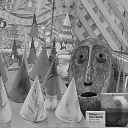
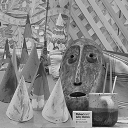
Fixed stereo app

diff --git a/apps/hardware_benchmarks/apps/stereo/stereo_generator.cpp b/apps/hardware_benchmarks/apps/stereo/stereo_generator.cpp
@@ -13,75 +13,48 @@ namespace {
     Input<Buffer<uint8_t>> right{"right", 2};
     Output<Buffer<uint8_t>> output{"output", 2};
 
-    int windowR = 4;
+    int windowR = 8;
     int searchR = 10;
 
-    Func rectify_float(Func img, Func remap) {
-      Expr offsetX = cast<float>(cast<int16_t>(remap(x, y, 0)) - cast<int16_t>(128)) / 16.0f;
-      Expr offsetY = cast<float>(cast<int16_t>(remap(x, y, 1)) - cast<int16_t>(128)) / 16.0f;
-
-      Expr targetX = cast<int>(floor(offsetX));
-      Expr targetY = cast<int>(floor(offsetY));
-
-      Expr wx = offsetX - targetX;
-      Expr wy = offsetY - targetY;
-
-      Func interpolated("interpolated");
-      interpolated(x, y) = lerp(lerp(img(x+targetX, y+targetY, 1), img(x+targetX+1, y+targetY, 1), wx),
-                                lerp(img(x+targetX, y+targetY+1, 1), img(x+targetX+1, y+targetY+1, 1), wx), wy);
-
-      return interpolated;
-    }
-
-    Func rectify_int(Func img, Func remap) {
-      Expr targetX = (cast<int16_t>(remap(x, y, 0)) - 128) / 16;
-      Expr targetY = (cast<int16_t>(remap(x, y, 1)) - 128) / 16;
-
-      // wx and wy are equal to wx*256 and wy*256 in rectify_float()
-      Expr wx = cast<uint8_t>((cast<int16_t>(remap(x, y, 0)) * 16) - (128 * 16) - (targetX * 256));
-      Expr wy = cast<uint8_t>((cast<int16_t>(remap(x, y, 1)) * 16) - (128 * 16) - (targetY * 256));
-
-      Func interpolated("interpolated");
-      interpolated(x, y) = lerp(lerp(img(x+targetX, y+targetY, 1), img(x+targetX+1, y+targetY, 1), wx),
-                                lerp(img(x+targetX, y+targetY+1, 1), img(x+targetX+1, y+targetY+1, 1), wx), wy);
-
-      return interpolated;
-    }
+   
 
     void generate() {
       
       
       Func left_padded, right_padded;
-      Func left_remapped, right_remapped;
+
       Func SAD, offset0, offset1, hw_output;
       RDom win(-windowR, windowR*2, -windowR, windowR*2);
       RDom search(0, searchR);
 
-      Func hw_right_input("hw_right_input");
-      hw_right_input(x, y) = cast<uint16_t>(right(x, y));
-
-      Func hw_left_input("hw_left_input");
-      hw_left_input(x, y) = cast<uint16_t>(left(x, y));
-
-      right_padded = BoundaryConditions::constant_exterior(hw_right_input, 0, 129,129);
-      left_padded = BoundaryConditions::constant_exterior(hw_left_input, 0, 129,129);
-
-      right_remapped = right_padded;
-      left_remapped = left_padded;
+      right_padded = Halide::BoundaryConditions::repeat_edge(left);
+      left_padded = Halide::BoundaryConditions::repeat_edge(right);
 
 
-      SAD(x, y, c) = 0;
-      SAD(x, y, c) += cast<uint16_t>(absd(right_remapped(x+win.x, y+win.y),
-                                          left_remapped(x+win.x+20+c, y+win.y)));
+      Func hw_right_input("hw_right_input"), hw_right_input_copy("hw_right_input_copy");
+      hw_right_input(x, y) = cast<uint16_t>(right_padded(x, y));
+      hw_right_input_copy(x,y) = hw_right_input(x, y);
 
+      Func hw_left_input("hw_left_input"), hw_left_input_copy("hw_left_input_copy");
+      hw_left_input(x, y) = cast<uint16_t>(left_padded(x, y));
+      hw_left_input_copy(x,y) = hw_left_input(x, y);
 
-      offset0(x, y) = cast<uint16_t>(0);
+      SAD(x, y, c) = cast<uint16_t>(0);
+      SAD(x, y, c) += cast<uint16_t>(absd(hw_right_input_copy(x+win.x, y+win.y),
+                                          hw_left_input_copy(x+win.x+5+c, y+win.y)));
+
+      offset0(x, y) = cast<int8_t>(0);
       offset1(x, y) = cast<uint16_t>(65535);
-      offset1(x, y) = cast<uint16_t>(min(SAD(x, y, search.x), offset1(x, y)));
-      offset0(x, y) = cast<uint16_t>(select(SAD(x, y, search.x) < offset1(x, y), cast<uint16_t>(search.x), offset0(x, y)));
 
-      hw_output(x, y) = cast<uint8_t>(cast<uint16_t>(offset0(x, y)) * 255 / searchR);
+      offset1(x,y) = min(SAD(x, y, search.x), offset1(x, y));
+      offset0(x, y) = select(SAD(x, y, search.x) == offset1(x, y), cast<int8_t>(search.x), offset0(x, y));
 
+      Func offset_out("offset_out");
+      offset_out(x, y) = offset0(x, y);
+      // offset_out(x, y) = SAD(x, y, 0)/256;
+
+      hw_output(x, y) = cast<uint8_t>(cast<uint16_t>(offset_out(x, y)) * 255 / searchR);
+      // hw_output(x, y) = cast<uint8_t>(SAD(x, y, 0)/256);
       output(x, y) = hw_output(x, y);
 
       output.bound(x, 0, 128);
@@ -92,19 +65,22 @@ namespace {
         hw_output.compute_root();
         hw_output.tile(x, y, xo, yo, xi, yi, 128, 128).hw_accelerate(xi, xo);
         
-        offset0.compute_root();
-        offset1.compute_root();
+        offset_out.compute_at(hw_output, xo).store_at(hw_output, xo);
+        offset0.compute_at(hw_output, xo).store_at(hw_output, xo);
+        offset1.compute_at(hw_output, xo).store_at(hw_output, xo);
 
-        SAD.compute_root();
 
-        right_remapped.compute_root();
-        left_remapped.compute_root();
+        SAD.compute_at(hw_output, xo).store_at(hw_output, xo);
 
-        right_padded.compute_root();
-        left_padded.compute_root();
 
-        hw_right_input.accelerator_input();
-        hw_left_input.accelerator_input();
+        // right_padded.compute_at(hw_output, xo).store_at(hw_output, xo);
+        // left_padded.compute_at(hw_output, xo).store_at(hw_output, xo);
+
+
+        hw_right_input_copy.compute_at(hw_output, xo);
+        hw_left_input_copy.compute_at(hw_output, xo);
+        hw_right_input.stream_to_accelerator();
+        hw_left_input.stream_to_accelerator();
         // RVar so("so"), si("si");
         //offset.update(0).unroll(search.x, 16); // the unrolling doesn's generate code that balances the computation, creating a long critical path
         //offset.update(0).split(search.x, so, si, 16);

diff --git a/apps/hardware_benchmarks/apps/stereo/process.cpp b/apps/hardware_benchmarks/apps/stereo/process.cpp
@@ -63,28 +63,28 @@ int main( int argc, char **argv ) {
     int L_Y = 128;
   
     processor.inputs["right.png"] = Buffer<uint8_t>(R_X, R_Y);
-    auto right_copy_stencil = processor.inputs["right.png"];
-    for (int y = 0; y < right_copy_stencil.dim(1).extent(); y++) {
-      for (int x = 0; x < right_copy_stencil.dim(0).extent(); x++) {
-          right_copy_stencil(x, y) = x + y;
-          //input_copy_stencil(z, x, y) = 1;
-        } }
+    // auto right_copy_stencil = processor.inputs["right.png"];
+    // for (int y = 0; y < right_copy_stencil.dim(1).extent(); y++) {
+    //   for (int x = 0; x < right_copy_stencil.dim(0).extent(); x++) {
+    //       right_copy_stencil(x, y) = x + y;
+    //       //input_copy_stencil(z, x, y) = 1;
+    //     } }
 
-    std::cout << "right has dims: " << processor.inputs["right.png"].dim(0).extent() << "x"
-              << processor.inputs["right.png"].dim(1).extent() << "\n";
+    // std::cout << "right has dims: " << processor.inputs["right.png"].dim(0).extent() << "x"
+    //           << processor.inputs["right.png"].dim(1).extent() << "\n";
 
   
     processor.inputs["left.png"] = Buffer<uint8_t>(L_X, L_Y);
-    auto left_copy_stencil = processor.inputs["left.png"];
-    for (int y = 0; y < left_copy_stencil.dim(1).extent(); y++) {
-      for (int x = 0; x < left_copy_stencil.dim(0).extent(); x++) {
-            left_copy_stencil(x, y) = x + y;
-            //kernel_copy_stencil(z, w, x, y) = 1;
-          } }
+    // auto left_copy_stencil = processor.inputs["left.png"];
+    // for (int y = 0; y < left_copy_stencil.dim(1).extent(); y++) {
+    //   for (int x = 0; x < left_copy_stencil.dim(0).extent(); x++) {
+    //         left_copy_stencil(x, y) = x + y;
+    //         //kernel_copy_stencil(z, w, x, y) = 1;
+    //       } }
   
-    std::cout << "left has dims: " << processor.inputs["left.png"].dim(0).extent() << "x"
-              << processor.inputs["left.png"].dim(1).extent() << "\n";
-    processor.inputs_preset = true;
+    // std::cout << "left has dims: " << processor.inputs["left.png"].dim(0).extent() << "x"
+    //           << processor.inputs["left.png"].dim(1).extent() << "\n";
+    // processor.inputs_preset = true;
     processor.output = Buffer<uint8_t>(128,128);
   
   return processor.process_command(argc, argv);
